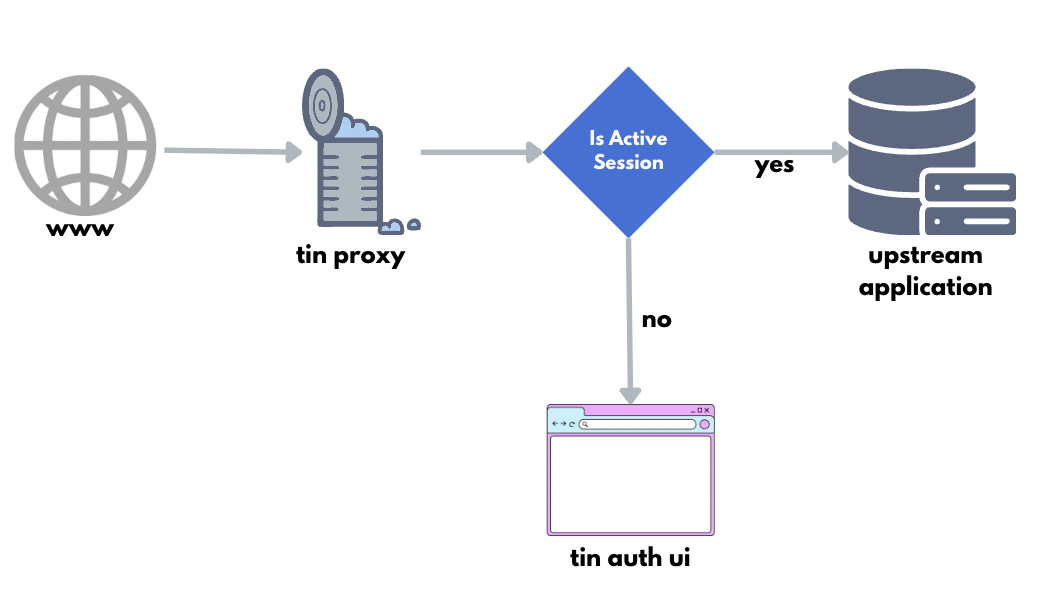
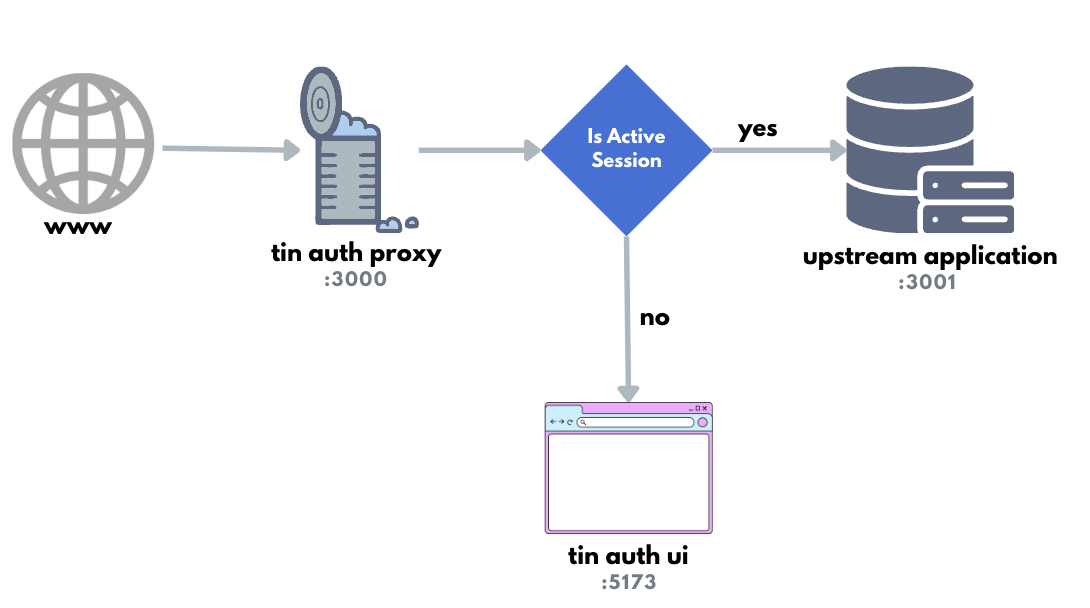
Add a Get started section to the Readme

Changed region(s): [[0.0, 0.0915, 0.9827, 0.9763]]

diff --git a/README.md b/README.md
@@ -1,16 +1,19 @@
 # Tin Auth Proxy Server: Clerk
 
+![](https://img.shields.io/github/license/gemmadlou/tin)
+[![Codacy Badge](https://app.codacy.com/project/badge/Grade/c733ea574d404640959b6a4cb4dafe71)](https://app.codacy.com/gh/gemmadlou/tin.auth.proxy/dashboard?utm_source=gh&utm_medium=referral&utm_content=&utm_campaign=Badge_grade)
+
 The Tin Auth Proxy Server handles Clerk session authentication and proxies to an upstream application.
 
 ![](docs/images/diagram.png)
 
 ## Motivation
 
-I didn't want to build Clerk into an OSS application I was working on but rather bolt it on. That way others could use my application but instead, work with their own authentication.
+I didn't want to build Clerk into an OSS application I was working on but rather bolt it on. That way others could use the application with their own authentication.
 
 ## Features
 
-- Checks, verifies and decodes the `__session` passed from the browser cookie.
+- Checks, verifies and decodes the `__session` passed from the browser cookie for Clerk.
 - Passes through the `X-Forwarded-User` to the upstream application.
 - Separates Clerk session handling from the upstream application.
 
@@ -18,11 +21,75 @@ I didn't want to build Clerk into an OSS application I was working on but rather
 
 - The upstream service should not be accessible from the internet except by the proxy server.
 - Does not handle `token` authentication.
-- Does not handle authorisation.
+- Does not handle authorisation or roles.
+- Does not handle organisations currently.
 
 ## Pre-requisites
 
 - A clerk account
+
+## Get started
+
+### Setting up the Auth UI server
+
+Install the auth UI.
+
+```bash
+git clone git@github.com:gemmadlou/tin.auth.ui.git
+
+cd tin.auth.ui
+```
+
+Setup the `VITE_CLERK_PUBLISHABLE_KEY`.
+
+> You can get your Publishable key from the Clerk dashboard.
+
+```bash
+echo VITE_CLERK_PUBLISHABLE_KEY=... > .env
+```
+
+Start the server.
+
+```bash
+yarn dev
+```
+
+### Starting the proxy server
+
+Outside of the auth ui project, clone the tin proxy.
+
+```bash
+git clone git@github.com:gemmadlou/tin.auth.proxy.git
+
+cd tin.auth.proxy
+```
+
+Add your Clerk JWK to the .env file.
+
+> You can get your [JWK json URL](https://clerk.com/docs/backend-requests/handling/manual-jwt#get-your-instance-s-public-key) from Clerk.
+
+```bash
+echo JWK_URL=https://clerk.xxxxxxxxxxxxxx.dev/.well-known/jwks.json > .env
+```
+
+Add your Auth UI URL to the .env
+
+```bash
+echo AUTH_FE_URL=http://localhost:5173/ >> .env
+```
+
+Add your upstream app to the .env
+
+```bash
+echo PROXY_TARGET_URL=http://localhost:3001/ >> .env
+```
+
+Start the proxy server.
+
+```bash
+yarn dev
+```
+
 
 ## Development
 
